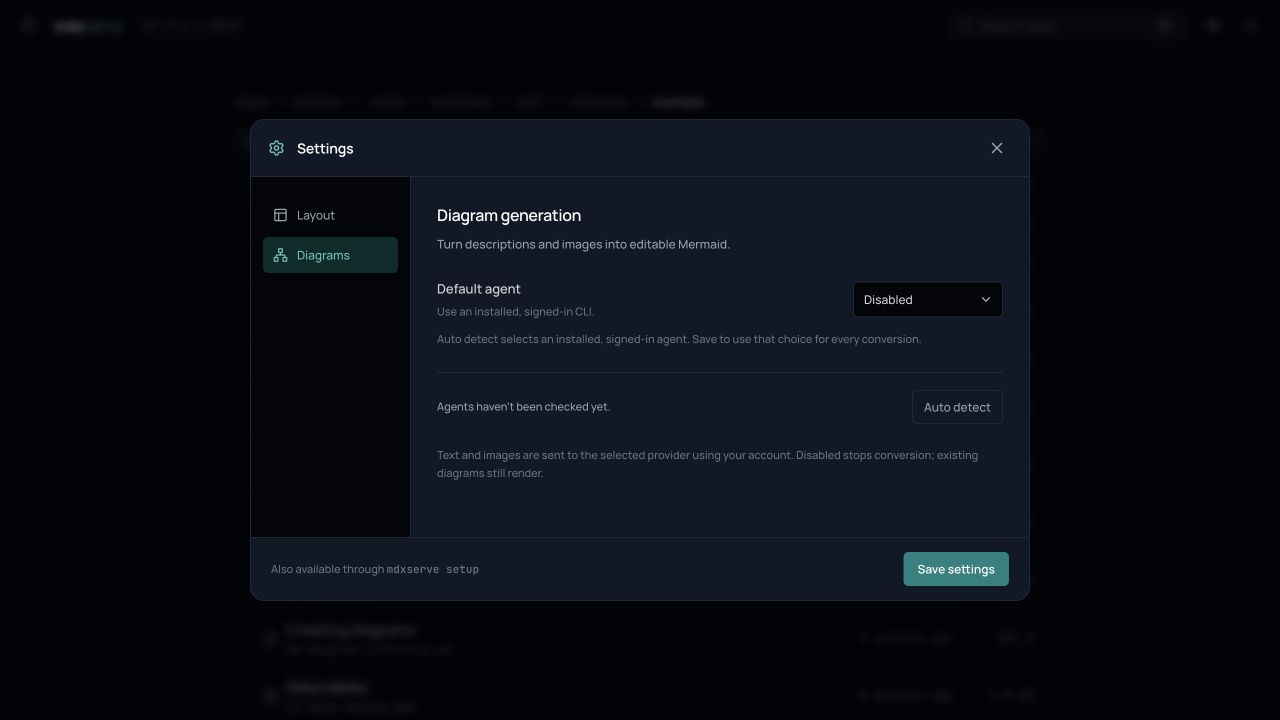
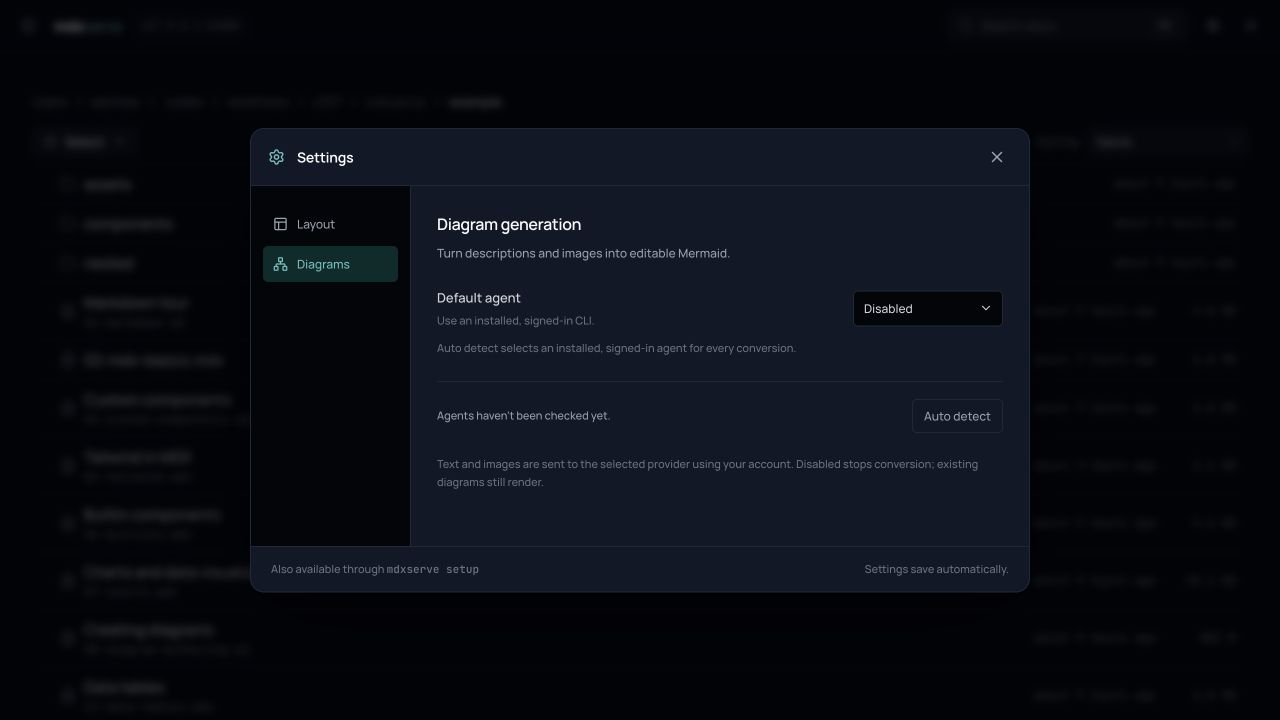
Autosave settings as they change

diff --git a/tests/client/diagram-preferences.test.ts b/tests/client/diagram-preferences.test.ts
@@ -1,20 +1,27 @@
 // @vitest-environment jsdom
+import { JSDOM } from "jsdom";
 import { act, createElement } from "react";
 import { createRoot, type Root } from "react-dom/client";
 import { afterEach, beforeEach, expect, it, vi } from "vitest";
+import { getDefaultStore } from "jotai";
+import { contentLayoutAtom } from "../../client/state";
 import { DiagramPreferences } from "../../client/diagrams/Preferences";
-const rpc = vi.hoisted(() => ({ get: vi.fn(), list: vi.fn(), save: vi.fn() }));
+const rpc = vi.hoisted(() => ({ get: vi.fn(), list: vi.fn(), save: vi.fn(), probe: vi.fn() }));
 vi.mock("../../client/api", () => ({
 	trpcClient: {
 		getDiagramPreferences: { query: rpc.get },
 		listDiagramModels: { mutate: rpc.list },
 		setDiagramPreferences: { mutate: rpc.save },
+		probeDiagramAgents: { mutate: rpc.probe },
 	},
 }));
 let root: Root;
 let host: HTMLDivElement;
 beforeEach(async () => {
-	vi.clearAllMocks();
+	vi.resetAllMocks();
+	vi.stubGlobal("IS_REACT_ACT_ENVIRONMENT", true);
+	vi.stubGlobal("localStorage", new JSDOM("", { url: "http://localhost" }).window.localStorage);
+	getDefaultStore().set(contentLayoutAtom, "flexible");
 	rpc.get.mockResolvedValue({ agent: "codex", models: { codex: "gpt-6-luna", claude: "haiku" } });
 	rpc.list.mockImplementation(async ({ provider }) =>
 		provider === "codex"
@@ -25,6 +32,7 @@ beforeEach(async () => {
 			: [{ id: "haiku", label: "Haiku" }],
 	);
 	rpc.save.mockResolvedValue({});
+	rpc.probe.mockResolvedValue([{ provider: "claude", state: "ready" }]);
 	HTMLDialogElement.prototype.close = function () {
 		this.open = false;
 	};
@@ -39,6 +47,7 @@ beforeEach(async () => {
 afterEach(async () => {
 	await act(async () => root.unmount());
 	host.remove();
+	vi.unstubAllGlobals();
 });
 async function select(selector: string, value: string) {
 	await act(async () => {
@@ -55,11 +64,7 @@ it("shows only the active agent's models and preserves each selection across swi
 	expect(document.querySelector<HTMLSelectElement>("#diagram-model")!.value).toBe("haiku");
 	await select("#diagram-agent", "codex");
 	expect(document.querySelector<HTMLSelectElement>("#diagram-model")!.value).toBe("custom");
-	await act(async () =>
-		[...document.querySelectorAll("button")]
-			.find((button) => button.textContent === "Save settings")!
-			.click(),
-	);
+
 	expect(rpc.save).toHaveBeenCalledWith({
 		agent: "codex",
 		models: { codex: "custom", claude: "haiku" },
@@ -72,4 +77,65 @@ it("keeps the saved model when discovery fails", async () => {
 	await select("#diagram-agent", "claude");
 	expect(document.querySelector<HTMLSelectElement>("#diagram-model")!.value).toBe("haiku");
 	expect(document.body.textContent).toContain("Your saved choice is unchanged");
+});
+
+async function clickButton(label: string) {
+	await act(async () => {
+		[...document.querySelectorAll("button")]
+			.find((button) => button.textContent?.trim() === label)!
+			.click();
+	});
+}
+it("autosaves agent and model changes without closing Settings or writing during load", async () => {
+	expect(rpc.save).not.toHaveBeenCalled();
+	expect(document.body.textContent).not.toContain("Save settings");
+	await select("#diagram-model", "custom");
+	expect(rpc.save).toHaveBeenLastCalledWith({
+		agent: "codex",
+		models: { codex: "custom", claude: "haiku" },
+	});
+	await select("#diagram-agent", "disabled");
+	expect(rpc.save).toHaveBeenLastCalledWith({
+		agent: "disabled",
+		models: { codex: "custom", claude: "haiku" },
+	});
+	expect(document.querySelector("dialog")!.open).toBe(true);
+});
+it("saves the auto-detected agent without a separate save action", async () => {
+	await clickButton("Auto detect");
+	expect(rpc.save).toHaveBeenLastCalledWith({
+		agent: "claude",
+		models: { codex: "gpt-6-luna", claude: "haiku" },
+	});
+	expect(document.querySelector<HTMLSelectElement>("#diagram-agent")!.value).toBe("claude");
+});
+it("prevents overlapping writes and restores the saved selection after a failure", async () => {
+	let rejectSave!: (failure: Error) => void;
+	rpc.save.mockImplementationOnce(
+		() =>
+			new Promise((_, reject) => {
+				rejectSave = reject;
+			}),
+	);
+	await select("#diagram-model", "custom");
+	expect(document.body.textContent).toContain("Saving…");
+	expect(document.querySelector<HTMLSelectElement>("#diagram-agent")!.disabled).toBe(true);
+	expect(document.querySelector<HTMLSelectElement>("#diagram-model")!.disabled).toBe(true);
+	await act(async () => rejectSave(new Error("offline")));
+	expect(document.querySelector<HTMLSelectElement>("#diagram-model")!.value).toBe("gpt-6-luna");
+	expect(document.querySelector('[role="alert"]')!.textContent).toContain("Couldn’t save settings");
+	await select("#diagram-model", "custom");
+	expect(document.querySelector('[role="alert"]')).toBeNull();
+	expect(document.querySelector<HTMLSelectElement>("#diagram-model")!.value).toBe("custom");
+});
+it("applies layout changes immediately and keeps them across reopening, independently of diagram writes", async () => {
+	await clickButton("Layout");
+	await select("#content-layout", "full-width");
+	expect(getDefaultStore().get(contentLayoutAtom)).toBe("full-width");
+	expect(localStorage.getItem("mdxserve.content.layout")).toBe('"full-width"');
+	expect(rpc.save).not.toHaveBeenCalled();
+	await act(async () => root.render(null));
+	await act(async () => root.render(createElement(DiagramPreferences, { onClose: vi.fn() })));
+	await clickButton("Layout");
+	expect(document.querySelector<HTMLSelectElement>("#content-layout")!.value).toBe("full-width");
 });

diff --git a/client/diagrams/Preferences.tsx b/client/diagrams/Preferences.tsx
@@ -7,8 +7,7 @@ import { trpcClient } from "../api";
 export type AgentChoice = "codex" | "claude" | "disabled";
 export function DiagramPreferences({ onClose }: { onClose: () => void }) {
 	const [category, setCategory] = useState<"diagrams" | "layout">("diagrams");
-	const [savedLayout, setSavedLayout] = useAtom(contentLayoutAtom);
-	const [layout, setLayout] = useState(savedLayout);
+	const [layout, setLayout] = useAtom(contentLayoutAtom);
 	const [agent, setAgent] = useState<AgentChoice>("disabled");
 	const [models, setModels] = useState({ codex: "", claude: "" });
 	const [catalog, setCatalog] = useState<{ id: string; label: string }[]>([]);
@@ -55,25 +54,25 @@ export function DiagramPreferences({ onClose }: { onClose: () => void }) {
 			obsolete = true;
 		};
 	}, [agent, loaded, refreshModels]);
-	async function save() {
-		if (category === "layout") {
-			setSavedLayout(layout);
-			onClose();
-			return;
-		}
+	async function save(nextAgent: AgentChoice, nextModels = models) {
+		const previousAgent = agent;
+		const previousModels = models;
+		setAgent(nextAgent);
+		setModels(nextModels);
 		setPending(true);
 		setError("");
 		try {
-			await trpcClient.setDiagramPreferences.mutate({ agent, models });
-			setSavedLayout(layout);
+			await trpcClient.setDiagramPreferences.mutate({ agent: nextAgent, models: nextModels });
 			window.dispatchEvent(new Event("mdxserve-diagram-preferences"));
-			onClose();
-		} catch (failure) {
-			setError(failure instanceof Error ? failure.message : "Could not save");
+		} catch {
+			setAgent(previousAgent);
+			setModels(previousModels);
+			setError("Couldn’t save settings. Your previous settings are unchanged. Try again.");
 		} finally {
 			setPending(false);
 		}
 	}
+
 	return (
 		<Modal open onClose={onClose} className="diagram-dialog diagram-settings" aria-label="Settings">
 			<header className="diagram-navbar">
@@ -150,8 +149,8 @@ export function DiagramPreferences({ onClose }: { onClose: () => void }) {
 								<select
 									id="diagram-agent"
 									value={agent}
-									onChange={(event) => setAgent(event.target.value as AgentChoice)}
-									disabled={!loaded}
+									onChange={(event) => void save(event.target.value as AgentChoice)}
+									disabled={!loaded || pending || checking}
 								>
 									<option value="codex">Codex</option>
 									<option value="claude">Claude Code</option>
@@ -161,8 +160,7 @@ export function DiagramPreferences({ onClose }: { onClose: () => void }) {
 							</span>
 						</label>
 						<p className="diagram-setting-note">
-							Auto detect selects an installed, signed-in agent. Save to use that choice for every
-							conversion.
+							Auto detect selects an installed, signed-in agent for every conversion.
 						</p>
 						{agent !== "disabled" && (
 							<>
@@ -176,8 +174,10 @@ export function DiagramPreferences({ onClose }: { onClose: () => void }) {
 											id="diagram-model"
 											aria-label="Model"
 											value={models[agent]}
-											disabled={!loaded || loadingModels}
-											onChange={(event) => setModels({ ...models, [agent]: event.target.value })}
+											disabled={!loaded || loadingModels || pending || checking}
+											onChange={(event) =>
+												void save(agent, { ...models, [agent]: event.target.value })
+											}
 										>
 											{!catalog.some((model) => model.id === models[agent]) && (
 												<option value={models[agent]}>
@@ -221,7 +221,7 @@ export function DiagramPreferences({ onClose }: { onClose: () => void }) {
 									try {
 										const result = await trpcClient.probeDiagramAgents.mutate({});
 										const ready = result.filter((status) => status.state === "ready");
-										setAgent(
+										await save(
 											ready.find((status) => status.provider === agent)?.provider ??
 												ready[0]?.provider ??
 												"disabled",
@@ -248,9 +248,6 @@ export function DiagramPreferences({ onClose }: { onClose: () => void }) {
 							Text and images are sent to the selected provider using your account. Disabled stops
 							conversion; existing diagrams still render.
 						</p>
-						<p role="alert" className="diagram-error">
-							{error}
-						</p>
 					</section>
 				)}
 			</div>
@@ -264,14 +261,15 @@ export function DiagramPreferences({ onClose }: { onClose: () => void }) {
 						</>
 					)}
 				</span>
-				<button
-					type="button"
-					className="diagram-primary"
-					disabled={category === "diagrams" && (pending || checking || !loaded)}
-					onClick={() => void save()}
-				>
-					Save settings
-				</button>
+				{error ? (
+					<p role="alert" className="diagram-error">
+						{error}
+					</p>
+				) : (
+					<span role="status">
+						{pending ? (loaded ? "Saving…" : "Loading settings…") : "Settings save automatically."}
+					</span>
+				)}
 			</footer>
 		</Modal>
 	);

diff --git a/AGENTS.md b/AGENTS.md
@@ -69,6 +69,10 @@ today that is a single `import type { AppRouter } from "../src/api/router"`.
 
 ## General philosophy
 
+- Settings autosave when changed and take effect immediately. Do not add Save or Apply
+  buttons to settings. For asynchronous persistence, show saving status and failures,
+  preserve the last saved value on failure, and prevent overlapping writes from losing changes.
+
 - `.md` and `.mdx` must always have identical syntax and behavior. Never choose parsing,
   rendering, validation, editing, or export behavior based on which extension a document has.
   Any syntax rule or escape hatch must work the same way in both.
